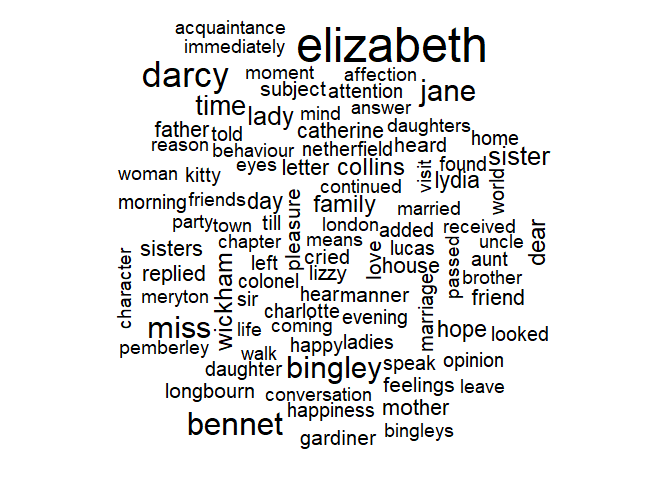
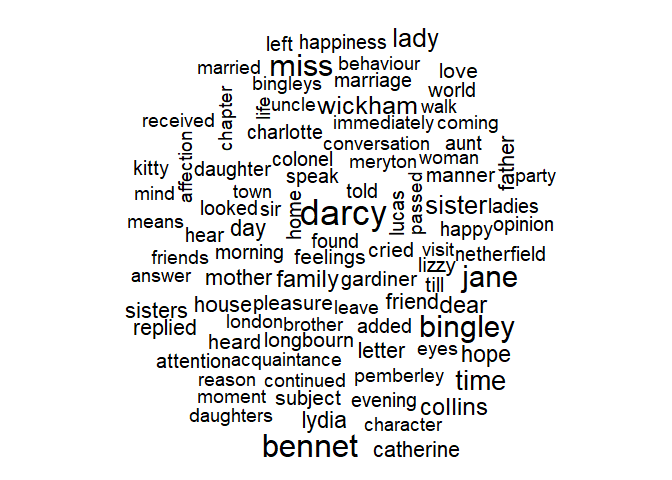
Fixed text formatting

Changed region(s): [[0.1562, 0.0312, 0.8438, 0.9688]]

diff --git a/assignment-b4.md b/assignment-b4.md
@@ -28,6 +28,9 @@ word_freq <- table(prideprejudicewords) %>% # counting occurence of each word
 wordcloud(names(word_freq), freq = word_freq, min.freq = 50, scale = c(3, 1)) # plotting wordcloud based on frequency
 ```
 
+    ## Warning in wordcloud(names(word_freq), freq = word_freq, min.freq = 50, :
+    ## elizabeth could not be fit on page. It will not be plotted.
+
 ![](assignment-b4_files/figure-gfm/unnamed-chunk-2-1.png)<!-- -->
 
 ## Exercise 2
@@ -162,6 +165,7 @@ ggplot(plot_data, aes(x = genus_name, y = avg_r_squared)) +
 ```
 
 ![](assignment-b4_files/figure-gfm/unnamed-chunk-10-1.png)<!-- -->
+
 Explaining this analysis:
 
 In this analysis, we show that certain genus of trees are more likely to
